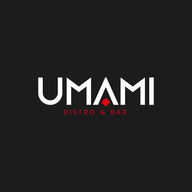
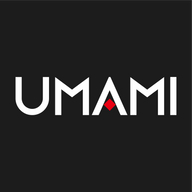
update

Changed region(s): [[0.0625, 0.375, 0.9375, 0.625]]

diff --git a/index.html b/index.html
@@ -15,14 +15,14 @@
 </head>
 <body>
   <div id="splash-screen">
-    <img id="logo" src="umamipng.png" alt="Logo" loading="lazy">
+    <img id="logo" src="umami.svg" alt="Logo" loading="lazy">
 </div>
   <header>
 <div id="website-content">
 <!-- Logo -->
   <div class="logo-container">
   <a href="#" id="logo-link">
-  <img src="umamipng.png" alt="Logo" class="custom-logo" loading="lazy">
+  <img src="umami.svg" alt="Logo" class="custom-logo" loading="lazy">
   </a>
 </div>
 

diff --git a/sw.js b/sw.js
@@ -1,6 +1,6 @@
 // sw.js
 
-const cacheVersion = 1.6;  // Increment this version number
+const cacheVersion = 1.7;  // Increment this version number
 const cacheName = `umami-v${cacheVersion}`;
 const filesToCache = [
   '/',

diff --git a/styles.css b/styles.css
@@ -233,8 +233,7 @@ h3 {
 }
 
 #splash-screen img {
-  width: 192.4px;
-  height: 62.4px;
+  width: 250px;
   animation: dropAndFade 2s cubic-bezier(0.68, -0.55, 0.27, 1.55) forwards;
 }
 
